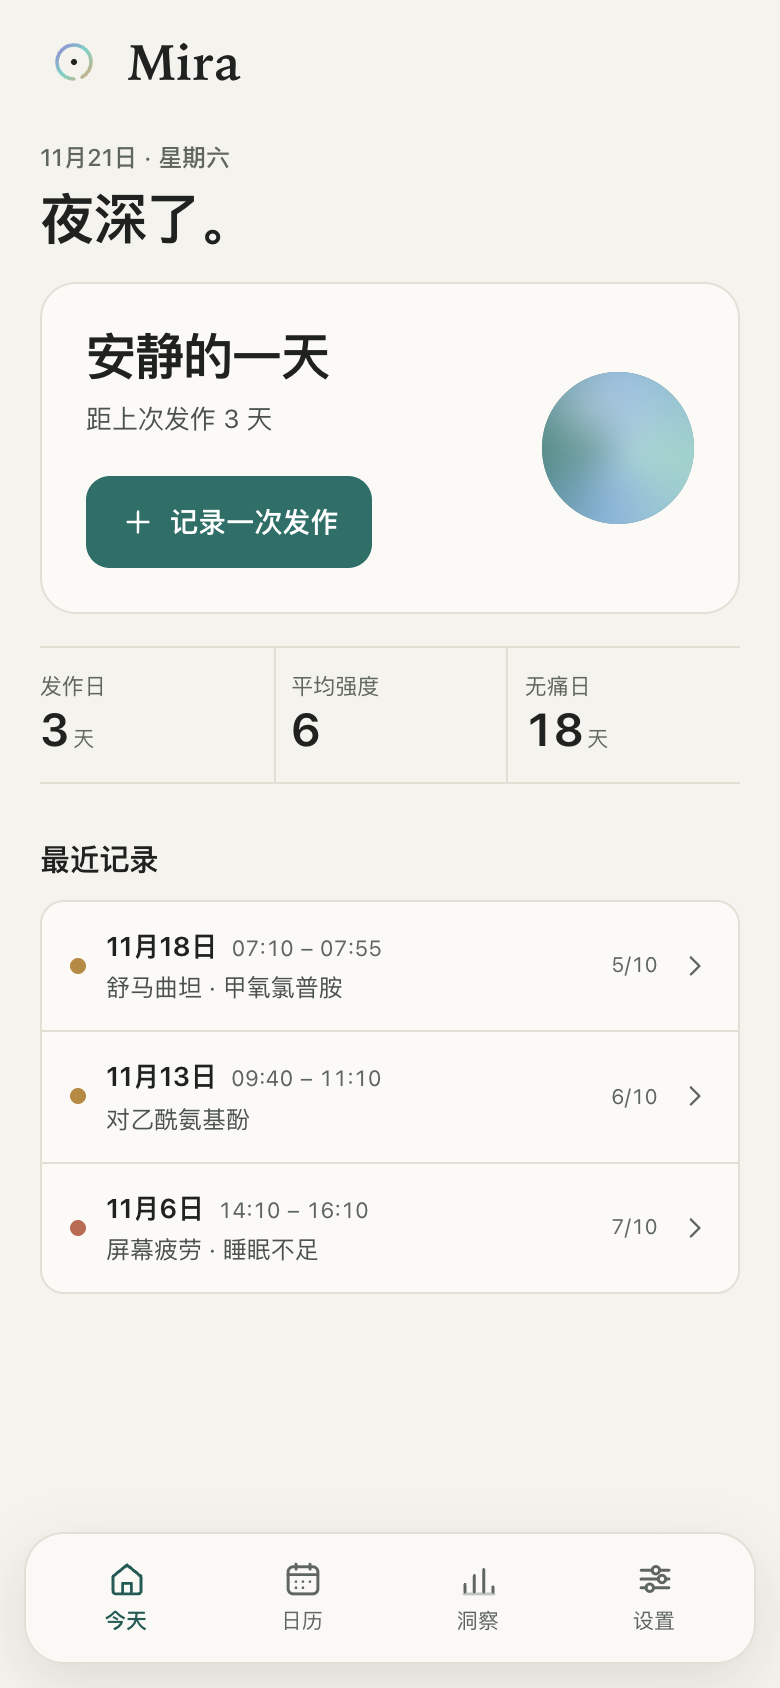
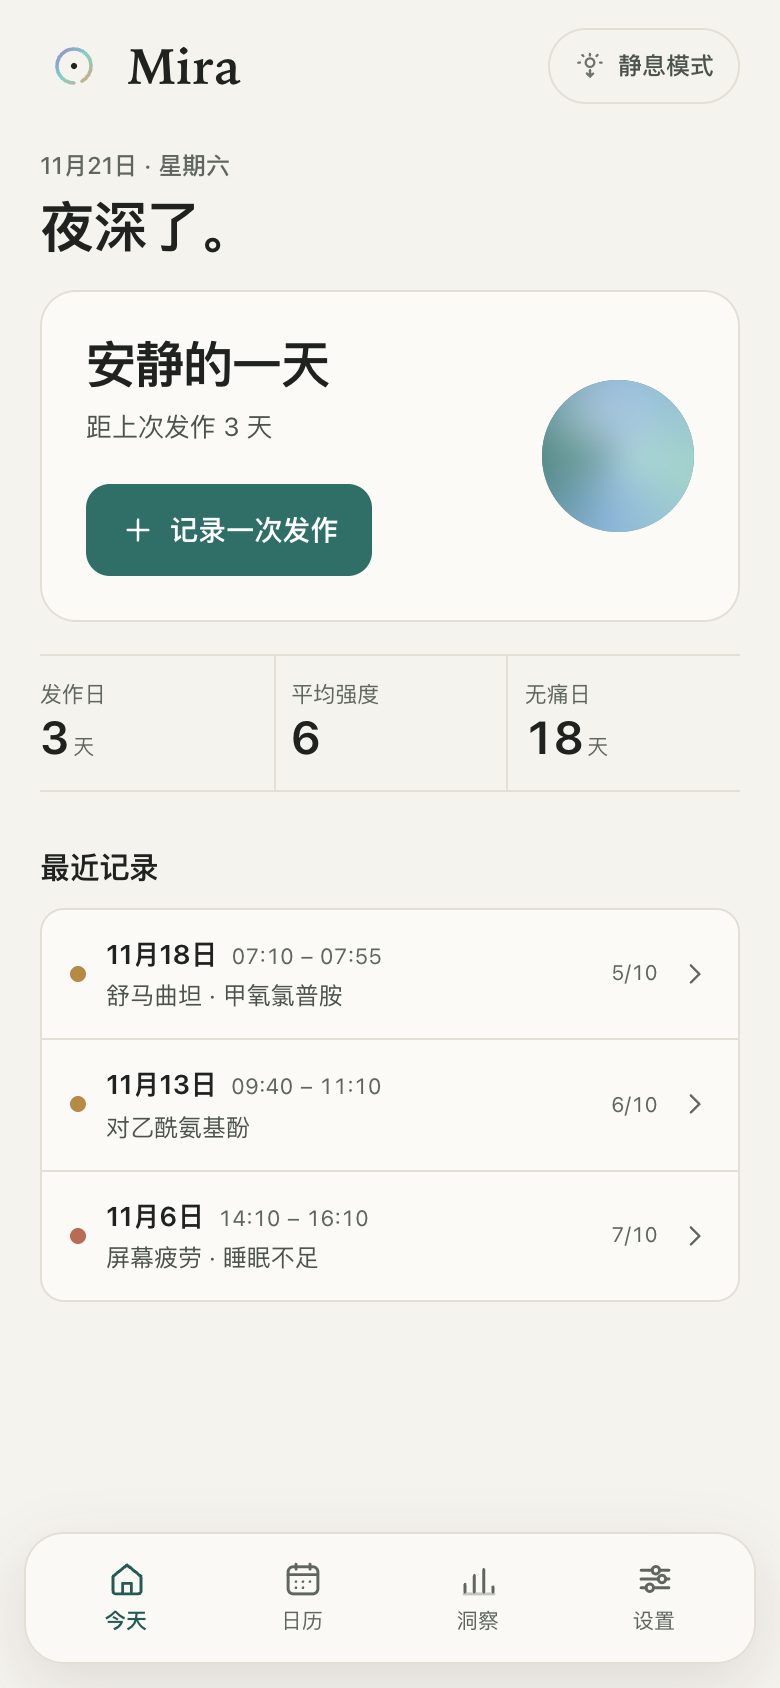
fix: add a clear quiet-mode shortcut to the header
- use a labeled brightness-down control instead of a moon icon
- keep the same toggle in Settings for discoverability
- make the quiet-mode banner provide an alternative exit
- add short-screen sizing and refresh screenshots/docs

diff --git a/src/app.tsx b/src/app.tsx
@@ -1,7 +1,7 @@
 import { useEffect, useMemo, useState } from 'preact/hooks';
 import { CatalogSheet } from './components/CatalogSheet';
 import { EpisodeSheet } from './components/EpisodeSheet';
-import { IconCheck, LogoMark } from './components/Icons';
+import { IconCheck, IconDim, LogoMark } from './components/Icons';
 import { QuickMedSheet } from './components/QuickMedSheet';
 import { WelcomeSheet } from './components/WelcomeSheet';
 import { BottomNav } from './components/BottomNav';
@@ -275,6 +275,18 @@ export function App() {
             <LogoMark size={26} />
           </span>
           <span class="brand-name">Mira</span>
+        </div>
+        <div class="header-actions">
+          <button
+            class="quiet-toggle"
+            type="button"
+            aria-pressed={settings.quiet}
+            aria-label={settings.quiet ? t('a11y.quietOff') : t('a11y.quietOn')}
+            onClick={() => updateSettings({ quiet: !settings.quiet })}
+          >
+            <IconDim size={16} />
+            <span>{t('settings.quiet')}</span>
+          </button>
         </div>
       </header>
 

diff --git a/src/styles.css b/src/styles.css
@@ -241,6 +241,37 @@ svg {
   align-items: center;
   gap: 8px;
 }
+.quiet-toggle {
+  display: inline-flex;
+  align-items: center;
+  gap: 6px;
+  min-height: 38px;
+  padding: 0 12px;
+  border: 1px solid var(--line);
+  border-radius: 999px;
+  background: transparent;
+  color: var(--text-2);
+  font-size: 12px;
+  font-weight: 500;
+  white-space: nowrap;
+}
+.quiet-toggle svg {
+  flex: none;
+  opacity: 0.8;
+}
+.quiet-toggle:hover {
+  color: var(--text);
+  background: var(--surface);
+}
+.quiet-toggle[aria-pressed='true'] {
+  color: var(--accent-strong);
+  border-color: color-mix(in srgb, var(--accent) 40%, var(--line));
+  background: var(--accent-wash);
+}
+:root[data-quiet='true'] .quiet-toggle {
+  min-height: 44px;
+  font-size: 13px;
+}
 .icon-btn {
   display: grid;
   place-items: center;
@@ -1567,6 +1598,15 @@ svg {
   .app-shell {
     padding-left: 14px;
     padding-right: 14px;
+  }
+  .quiet-toggle {
+    gap: 4px;
+    padding: 0 9px;
+    font-size: 11px;
+  }
+  .quiet-toggle svg {
+    width: 14px;
+    height: 14px;
   }
   .hero-grid {
     grid-template-columns: 1fr;

diff --git a/src/components/Icons.tsx b/src/components/Icons.tsx
@@ -246,3 +246,13 @@ export function IconPulse(props: IconProps) {
     </Svg>
   );
 }
+
+export function IconDim(props: IconProps) {
+  return (
+    <Svg {...props}>
+      <circle cx="12" cy="9.5" r="3.2" />
+      <path d="M12 2.8v1.4M4.6 9.5H3.2M20.8 9.5h-1.4M6.2 3.7l1 1M17.8 3.7l-1 1" />
+      <path d="M12 15v5M9.6 17.6 12 20l2.4-2.4" />
+    </Svg>
+  );
+}

diff --git a/docs/design.md b/docs/design.md
@@ -66,7 +66,7 @@ Mira 来自「注视」的意象：看清自己的节律，而不是被头痛推
 
 <p align="center"><img src="screenshots/10-quiet-mode.png" width="260" alt="静息模式" /></p>
 
-- 从设置中的开关进入，避免与明暗主题快捷入口混淆；暖黑底色、关闭动效、放大触控目标，不改变用户的浅色/深色偏好。
+- 首页顶部使用带「静息模式」文字的亮度降低图标，而不是月亮图标；设置中也有同一开关。开启后为暖黑底色、关闭动效、放大触控目标，不改变用户的浅色/深色偏好。
 - 这是产品与主题最贴合的一处：偏头痛发作常伴畏光，界面应该主动退让。
 
 ## 4. 信息架构

diff --git a/README.md b/README.md
@@ -86,7 +86,7 @@ Mira 因此做了三件事：
 
 ### 静息模式
 
-- 设置中开启：暖黑低光配色、关闭环境光效与动效、扩大按钮与触控区域。
+- 首页顶部有带文字的「静息模式」快捷按钮，设置中也有开关；开启后为暖黑低光配色、关闭环境动效、放大按钮与触控区域。
 - 适合发作中快速记录；再点一次即可退出。
 - 与主题偏好独立，选择不会被覆盖。
 
